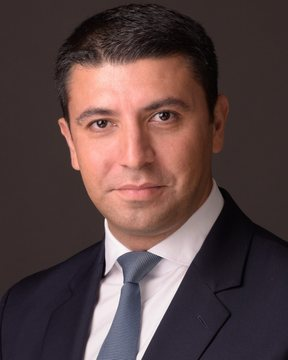
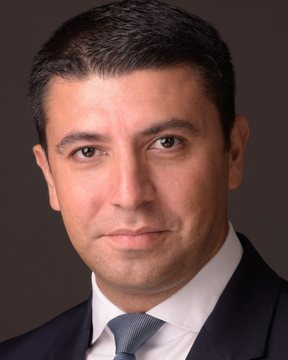
Larger, tighter host portrait; less space under the footer
- Portrait frame 96x120 -> 144x180 (corner radius scaled to match), with a
  tighter crop on the face. Owner's request.
- Footer bottom padding reduced from the section spacing (up to 136px) to
  24-40px. Owner's request.

Claude-Session: https://claude.ai/code/session_019zYYrapjcvSeFYHy4CRJEu

diff --git a/src/content/site.ts b/src/content/site.ts
@@ -120,9 +120,9 @@ export const site = {
     name: 'Mehdi Nayebi',
     bio: 'Mehdi worked on structured products at Deutsche Bank and Bank of America, and has founded or co-founded three companies. He brings both lenses to every story: what the evidence really shows, and what it takes to build.',
     /** Path under public/ once a portrait is supplied (open item 6). Empty shows the placeholder block. */
-    portrait: '/host/mehdi-nayebi-192.jpg',
+    portrait: '/host/mehdi-nayebi-288.jpg',
     /** Sharper copy for high-density screens. */
-    portrait3x: '/host/mehdi-nayebi-288.jpg',
+    portrait3x: '/host/mehdi-nayebi-432.jpg',
     portraitAlt: 'Portrait of Mehdi Nayebi',
     portraitPlaceholder: '[Photo]',
     portraitPlaceholderLabel: 'Portrait of Mehdi Nayebi, to be added',

diff --git a/src/styles/host.css b/src/styles/host.css
@@ -1,7 +1,8 @@
 /* ---------- host ---------- */
 .lf-host-sec{position:relative;padding:clamp(40px,5vw,72px) var(--pad) calc(clamp(40px,5vw,72px) + var(--arc)*.9)}
 .lf-host{display:flex;flex-wrap:wrap;align-items:center;gap:20px 40px}
-.lf-portrait{flex:none;width:96px;height:120px;display:grid;place-items:center;background:var(--ink);color:var(--ivory);border-radius:0 48px 0 0;overflow:hidden}
+/* Owner asked for a larger portrait than the original 96x120 spec (25 Nov 2026). */
+.lf-portrait{flex:none;width:144px;height:180px;display:grid;place-items:center;background:var(--ink);color:var(--ivory);border-radius:0 72px 0 0;overflow:hidden}
 .lf-portrait img{display:block;width:100%;height:100%;object-fit:cover}
 .lf-portrait .lf-mono{font-size:10px}
 .lf-host-id{flex:1 1 200px}

diff --git a/src/styles/footer.css b/src/styles/footer.css
@@ -1,5 +1,6 @@
 /* ---------- footer ---------- */
-.lf-foot{display:flow-root;padding:0 var(--pad) var(--sp)}
+/* Owner asked for less space under the last line (25 Nov 2026): was var(--sp). */
+.lf-foot{display:flow-root;padding:0 var(--pad) clamp(24px,3vw,40px)}
 .lf-fgrid{display:grid;grid-template-columns:repeat(auto-fit,minmax(min(220px,100%),1fr));gap:40px 48px;margin-top:clamp(64px,8vw,112px);padding-top:40px;border-top:1px solid rgba(255,248,236,.24)}
 .lf-fcol{display:flex;flex-direction:column;font-size:16px}
 .lf-fcol-brand{gap:16px}
